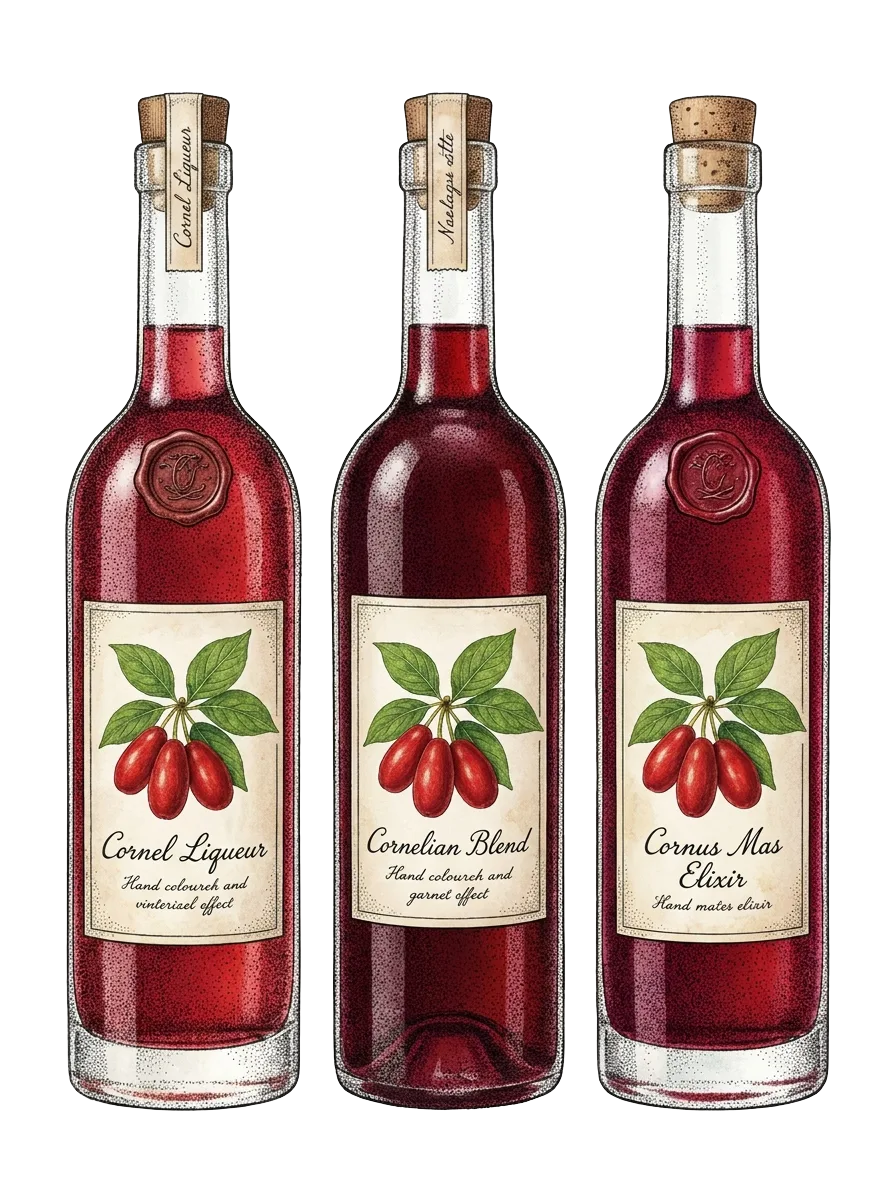
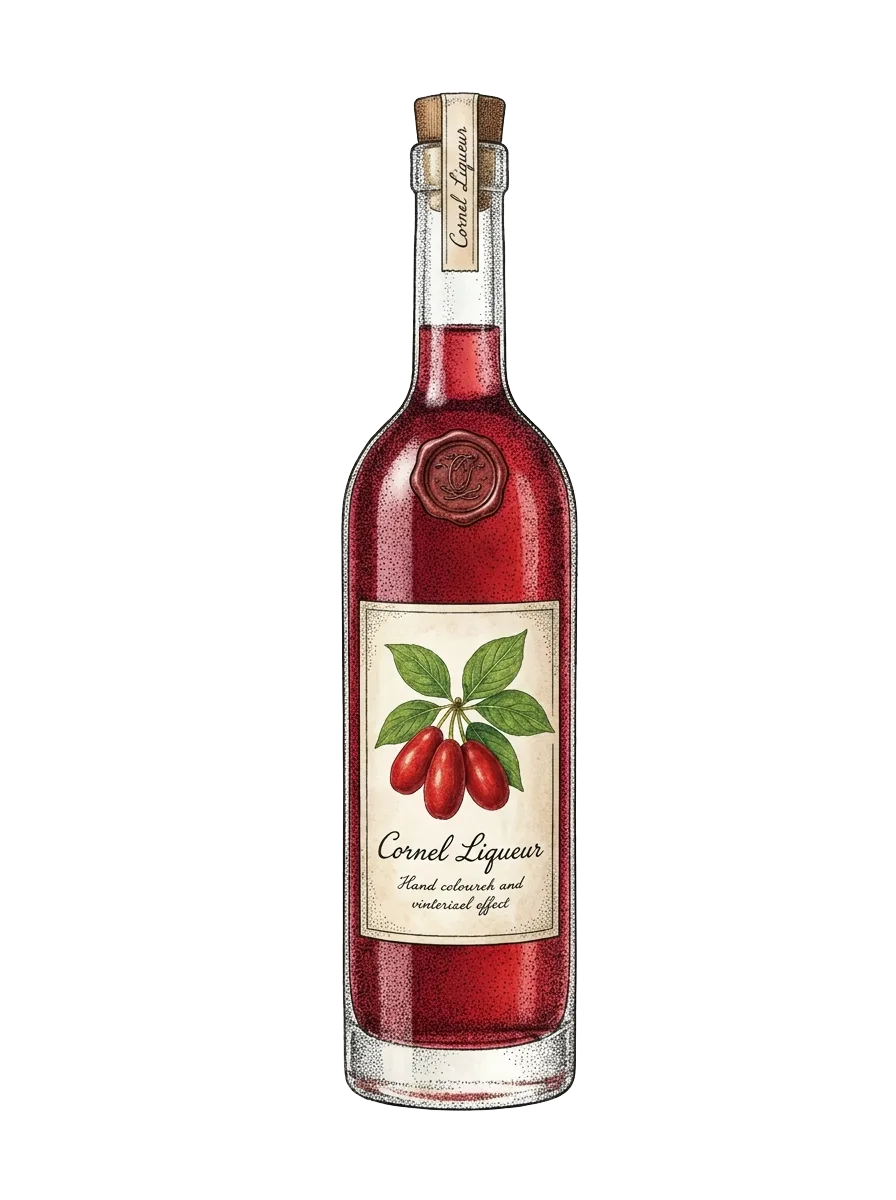
Liker: jedna boca (Cornel Liqueur) umesto tri; alt tekstovi u jedninu

diff --git a/index.html b/index.html
@@ -158,7 +158,7 @@
           </article>
 
           <article class="p-card reveal" style="--d:.12s">
-            <a href="proizvod-liker.html" class="p-card__img"><img class="ill" src="img/liker.webp" alt="Liker od drenjine u staklenim bocama" loading="lazy" width="896" height="1200"></a>
+            <a href="proizvod-liker.html" class="p-card__img"><img class="ill" src="img/liker.webp" alt="Liker od drenjine u staklenoj boci — rubin crvene boje" loading="lazy" width="896" height="1200"></a>
             <div class="p-card__body">
               <h3 class="p-card__name" data-i18n="p.liker.name">Liker od drenjine</h3>
               <p class="p-card__desc" data-i18n="p.liker.desc">Sladak i baršunast, rubin boje — čaša dobrodošlice u svakom domu.</p>

diff --git a/narucite.html b/narucite.html
@@ -120,7 +120,7 @@
           </article>
 
           <article class="p-card reveal" data-product="liker" style="--d:.12s">
-            <a href="proizvod-liker.html" class="p-card__img"><img class="ill" src="img/liker.webp" alt="Liker od drenjine u staklenim bocama" loading="lazy" width="896" height="1200"></a>
+            <a href="proizvod-liker.html" class="p-card__img"><img class="ill" src="img/liker.webp" alt="Liker od drenjine u staklenoj boci — rubin crvene boje" loading="lazy" width="896" height="1200"></a>
             <div class="p-card__body">
               <h3 class="p-card__name" data-i18n="p.liker.name">Liker od drenjine</h3>
               <p class="p-card__desc" data-i18n="p.liker.desc">Sladak i baršunast, rubin boje — čaša dobrodošlice u svakom domu.</p>

diff --git a/proizvod-liker.html b/proizvod-liker.html
@@ -88,7 +88,7 @@
         <div class="split">
           <div class="split__art reveal reveal--left">
             <div class="frame">
-              <img class="ill" src="img/liker.webp" alt="Liker od drenjine u staklenim bocama" width="896" height="1200">
+              <img class="ill" src="img/liker.webp" alt="Liker od drenjine u staklenoj boci — rubin crvene boje" width="896" height="1200">
               <div class="frame__caption" data-i18n="pp.liker.cap">0,5 l slatke dobrodošlice</div>
             </div>
           </div>